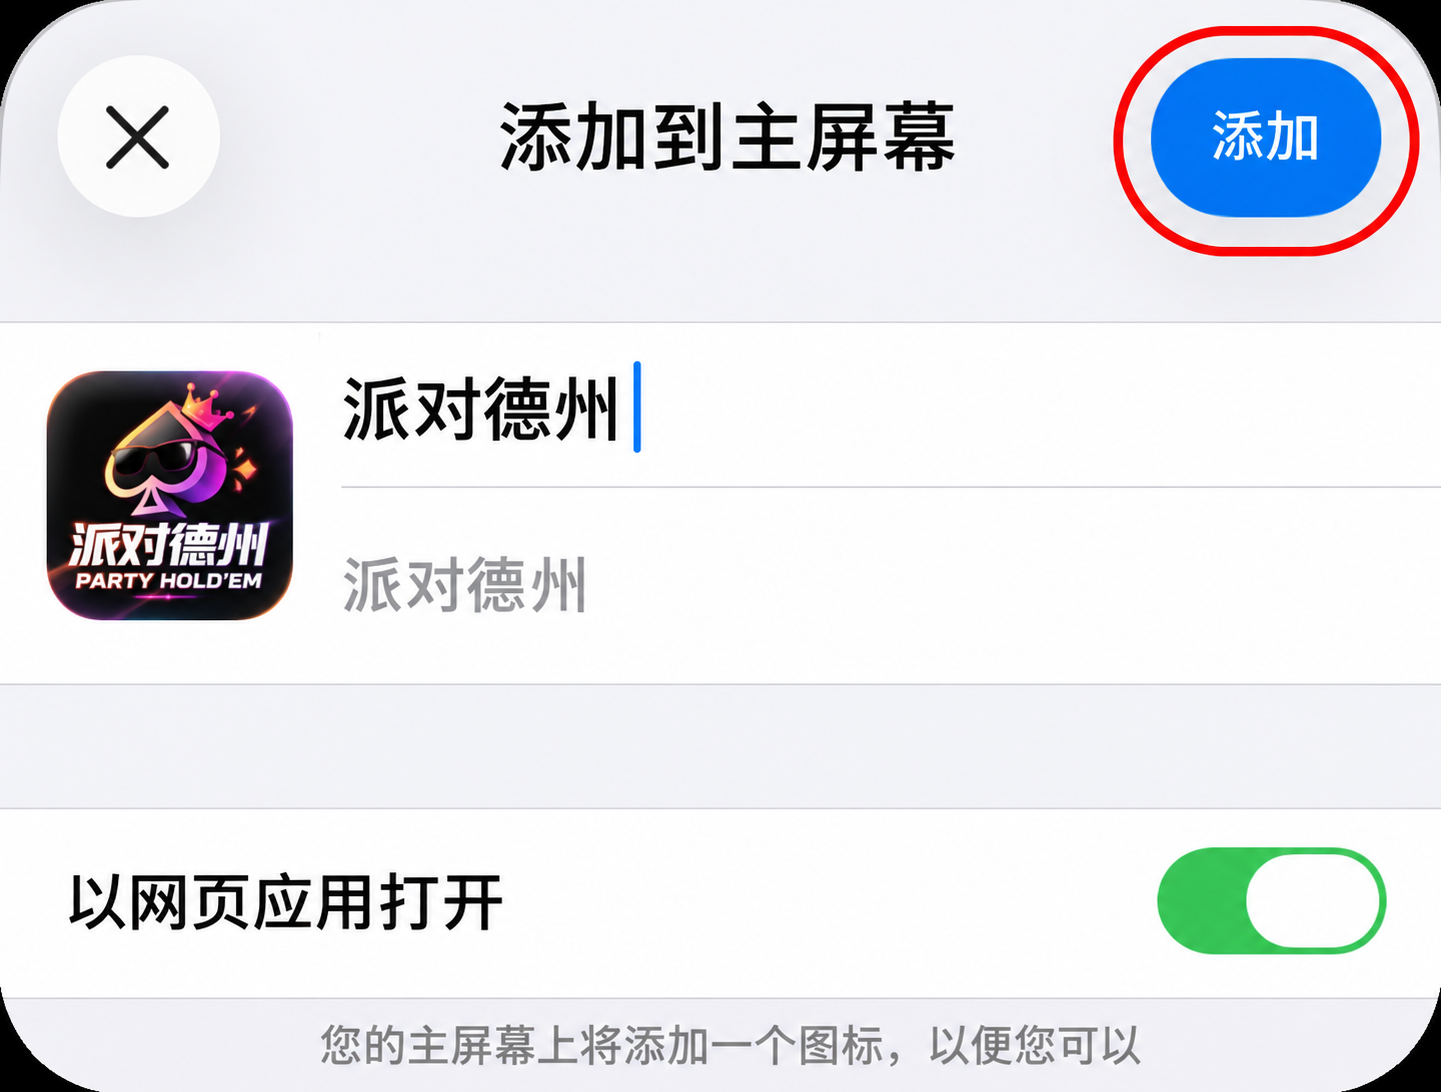
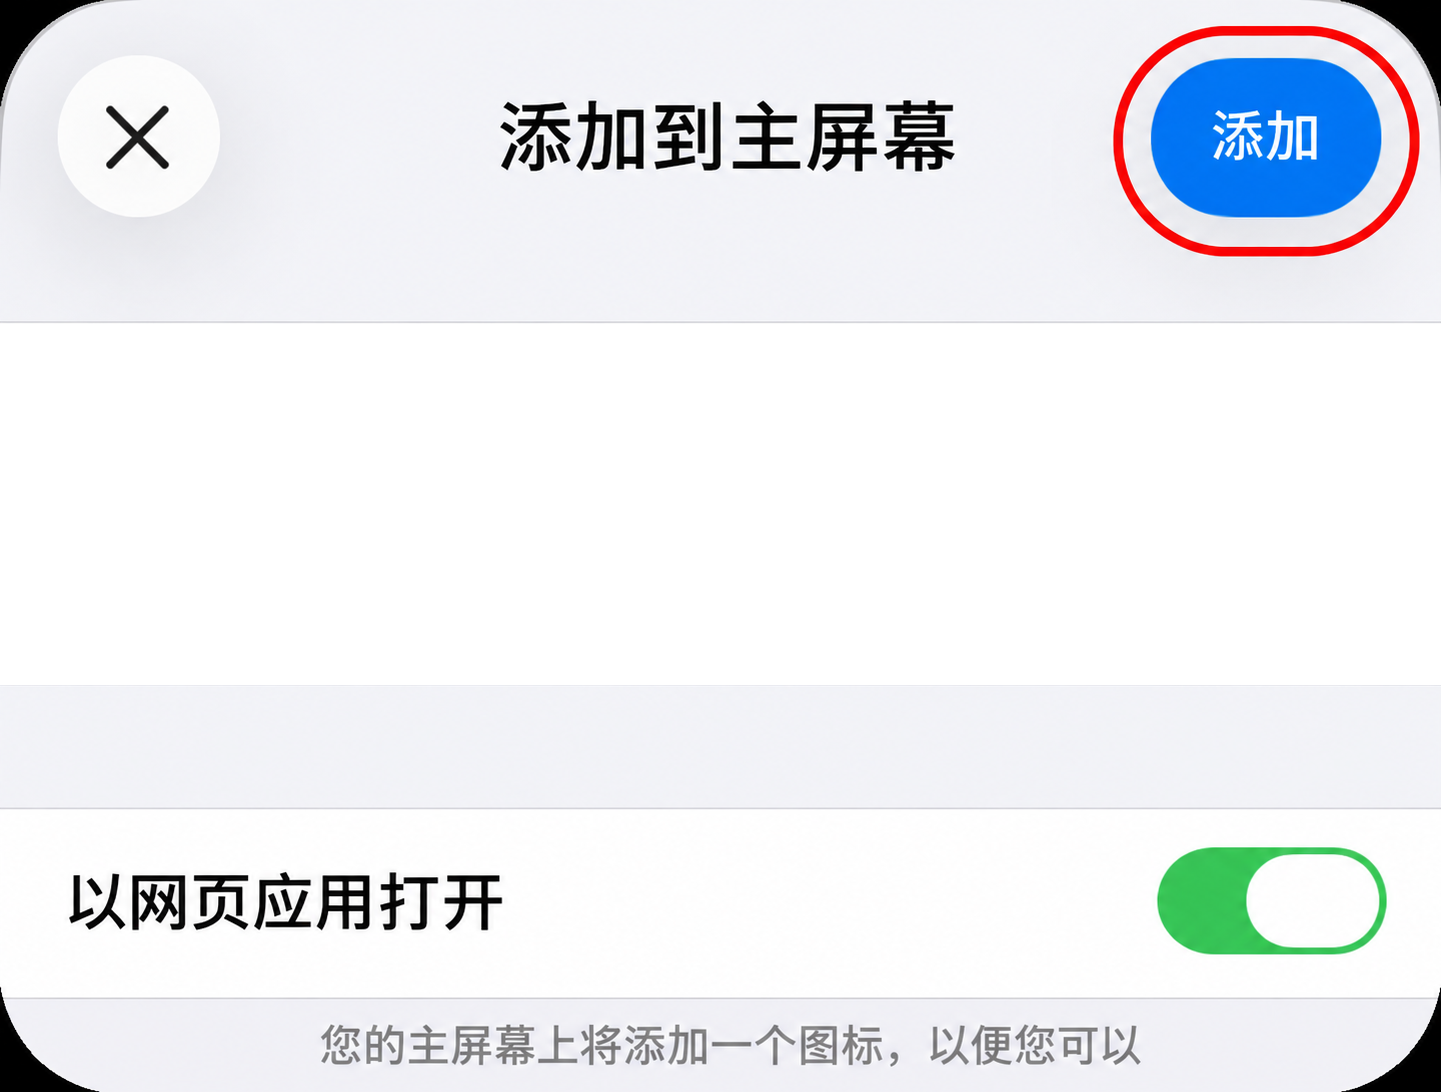
add to homescreen popup added in club private links

Changed region(s): [[0.0312, 0.3114, 0.4684, 0.5916]]

diff --git a/src/components/BridgePanel/panels/BridgeNotificationPanel.vue b/src/components/BridgePanel/panels/BridgeNotificationPanel.vue
@@ -4,24 +4,25 @@ import { showFailToast, showSuccessToast, showToast } from 'vant'
 import { t } from '@/i18n'
 import {
   canPromptInstall,
-  isIosSafari,
   isStandaloneDisplay,
   showAddToHomeScreenPrompt,
 } from '@/utils/environment'
-import {
-  installIosWebClip,
-  isIos,
-  isIosNativeSafari,
-  isIosThirdPartyBrowser,
-} from '@/utils/iosWebClip'
+import { isIos } from '@/utils/iosWebClip'
 import hometab1 from '@/assets/images/hometab1.png'
 import hometab2 from '@/assets/images/hometab2.png'
-import webClipIcon from '@/assets/images/icon-192.png?inline'
 import { sanitizeRichHtml } from '@/utils/safeHtml'
 import {
   isExternalLinkIframeModeEnabled,
   openExternalLinkFrame,
 } from '@/utils/externalLinkFrame'
+import { isChannelPackageHost, isPrivateDomainMode } from '@/utils/channelPackage'
+import { useUserInfoStore } from '@/stores/userInfo'
+import {
+  DEFAULT_CLUB_ICON,
+  DEFAULT_CLUB_NAME,
+  OFFICIAL_WEB_ICON,
+  OFFICIAL_WEB_NAME,
+} from '@/utils/safariWebApp'
 
 const props = defineProps<{
   panelProps?: Record<string, unknown>
@@ -109,7 +110,84 @@ const findUsData = computed<FindUsData & { link_list: string[] }>(() => {
 })
 
 // ==================== 状态 ====================
+const userInfoStore = useUserInfoStore()
+
+const isClub = computed<boolean>(() => {
+  if (typeof props.panelProps?.isClub === 'boolean') {
+    return props.panelProps.isClub
+  }
+  return isChannelPackageHost() || isPrivateDomainMode()
+})
+
+const dynamicGuideLabel = computed<string>(() => {
+  if (isClub.value) {
+    const club = userInfoStore.channelDefaultClub || userInfoStore.currentClub
+    const raw = (club || {}) as Record<string, unknown>
+    const fromClub =
+      (typeof club?.safari_label === 'string' && club.safari_label.trim()) ||
+      (typeof raw.safari_name === 'string' && raw.safari_name.trim()) ||
+      (typeof raw.desktop_name === 'string' && raw.desktop_name.trim()) ||
+      (typeof club?.name === 'string' && club.name.trim()) ||
+      (typeof raw.app_name === 'string' && raw.app_name.trim())
+    if (fromClub) return fromClub
+
+    if (typeof window !== 'undefined') {
+      const cached = window.localStorage.getItem('dzpk_h5_safari_label')
+      if (cached && cached.trim()) return cached.trim()
+    }
+
+    if (
+      typeof document !== 'undefined' &&
+      document.title &&
+      document.title.trim() &&
+      document.title !== OFFICIAL_WEB_NAME
+    ) {
+      return document.title.trim()
+    }
+
+    return DEFAULT_CLUB_NAME
+  }
+  return OFFICIAL_WEB_NAME
+})
+
+const dynamicGuideIcon = computed<string>(() => {
+  if (isClub.value) {
+    const club = userInfoStore.channelDefaultClub || userInfoStore.currentClub
+    const raw = (club || {}) as Record<string, unknown>
+    const fromClub =
+      (typeof club?.safari_icon_url === 'string' && club.safari_icon_url.trim()) ||
+      (typeof raw.safari_icon === 'string' && raw.safari_icon.trim()) ||
+      (typeof raw.desktop_icon === 'string' && raw.desktop_icon.trim()) ||
+      (typeof club?.logo === 'string' && club.logo.trim()) ||
+      (typeof raw.app_icon === 'string' && raw.app_icon.trim())
+    if (fromClub) return fromClub
+
+    if (typeof window !== 'undefined') {
+      const cached = window.localStorage.getItem('dzpk_h5_safari_icon')
+      if (cached && cached.trim()) return cached.trim()
+    }
+
+    if (typeof document !== 'undefined') {
+      const touchIcon = document.querySelector<HTMLLinkElement>('link[rel="apple-touch-icon"]')?.href
+      if (touchIcon && touchIcon.trim()) return touchIcon.trim()
+      const favIcon = document.querySelector<HTMLLinkElement>('link[rel="icon"]')?.href
+      if (favIcon && favIcon.trim()) return favIcon.trim()
+    }
+
+    return DEFAULT_CLUB_ICON
+  }
+  return OFFICIAL_WEB_ICON
+})
+
+function onGuideIconError(event: Event): void {
+  const target = event.target
+  if (target instanceof HTMLImageElement) {
+    target.src = isClub.value ? DEFAULT_CLUB_ICON : OFFICIAL_WEB_ICON
+  }
+}
+
 // 按需显示：只把有数据的步骤纳入递进序列（1=下载APP 2=弹窗公告 3=备用地址）
+// 俱乐部版本只保留第1步，不展示后两步
 const hasDownloadApp = computed(() => Object.keys(downloadAppData.value).length > 0)
 const hasPopupNotices = computed(() => popupNoticeList.value.length > 0)
 const hasFindUs = computed(() => {
@@ -120,8 +198,8 @@ const hasFindUs = computed(() => {
 const availableSteps = computed<number[]>(() => {
   const steps: number[] = []
   if (hasDownloadApp.value) steps.push(1)
-  if (hasPopupNotices.value) steps.push(2)
-  if (hasFindUs.value) steps.push(3)
+  if (!isClub.value && hasPopupNotices.value) steps.push(2)
+  if (!isClub.value && hasFindUs.value) steps.push(3)
   return steps
 })
 
@@ -339,6 +417,7 @@ async function onSecondaryAction(): Promise<void> {
             <span>{{ t('UILanding_Table') }}</span>
           </button>
           <button
+            v-if="!isClub"
             class="notification-panel__btn notification-panel__btn--primary"
             type="button"
             @click="onDownload"
@@ -509,8 +588,24 @@ async function onSecondaryAction(): Promise<void> {
             </div>
             <div class="a2h-guide__step">
               <p class="a2h-guide__text">{{ t('H5Display_GuideStep2') }}</p>
-              <div class="a2h-guide__img-wrap">
+              <div class="a2h-guide__img-wrap a2h-guide__img-wrap--step2">
                 <img :src="hometab2" alt="" class="a2h-guide__img" />
+                <div class="a2h-guide__mock-row">
+                  <div class="a2h-guide__mock-icon-wrap">
+                    <img
+                      :src="dynamicGuideIcon"
+                      alt=""
+                      class="a2h-guide__mock-icon"
+                      @error="onGuideIconError"
+                    />
+                  </div>
+                  <div class="a2h-guide__mock-info">
+                    <div class="a2h-guide__mock-title">
+                      <span>{{ dynamicGuideLabel }}</span>
+                    </div>
+                    <div class="a2h-guide__mock-sub">{{ dynamicGuideLabel }}</div>
+                  </div>
+                </div>
               </div>
             </div>
           </div>
@@ -1138,6 +1233,7 @@ async function onSecondaryAction(): Promise<void> {
   }
 
   &__img-wrap {
+    position: relative;
     border-radius: 20px;
     overflow: hidden;
     display: flex;
@@ -1145,6 +1241,77 @@ async function onSecondaryAction(): Promise<void> {
     width: 80%;
     max-width: 300px;
     margin: 0 auto;
+
+    &--step2 {
+      position: relative;
+    }
+  }
+
+  &__mock-row {
+    position: absolute;
+    top: 29.67%;
+    left: 0;
+    width: 100%;
+    height: 33.06%;
+    display: flex;
+    align-items: center;
+    padding: 0 4% 0 3.2%;
+    box-sizing: border-box;
+    pointer-events: none;
+    z-index: 2;
+  }
+
+  &__mock-icon-wrap {
+    width: 17.14%;
+    aspect-ratio: 1 / 1;
+    border-radius: 22%;
+    overflow: hidden;
+    flex-shrink: 0;
+    display: flex;
+    align-items: center;
+    justify-content: center;
+    background: #f2f2f7;
+    box-shadow: 0 1px 3px rgba(0, 0, 0, 0.12);
+  }
+
+  &__mock-icon {
+    width: 100%;
+    height: 100%;
+    object-fit: cover;
+    display: block;
+  }
+
+  &__mock-info {
+    margin-left: 3.5%;
+    flex: 1;
+    min-width: 0;
+    display: flex;
+    flex-direction: column;
+    justify-content: center;
+    gap: 4px;
+  }
+
+  &__mock-title {
+    font-size: clamp(10px, 3.4vw, 13px);
+    font-weight: 500;
+    color: #000000;
+    line-height: 1.25;
+    white-space: nowrap;
+    overflow: hidden;
+    text-overflow: ellipsis;
+    display: flex;
+    align-items: center;
+    font-family: -apple-system, BlinkMacSystemFont, 'SF Pro Text', 'PingFang SC', sans-serif;
+  }
+
+  &__mock-sub {
+    font-size: clamp(8px, 2.7vw, 10px);
+    color: #8e8e93;
+    line-height: 1.2;
+    white-space: nowrap;
+    overflow: hidden;
+    text-overflow: ellipsis;
+    font-family: -apple-system, BlinkMacSystemFont, 'SF Pro Text', 'PingFang SC', sans-serif;
   }
 
   &__img {

diff --git a/src/bridge/dailyH5DisplayPanel.ts b/src/bridge/dailyH5DisplayPanel.ts
@@ -7,7 +7,7 @@ import type {
 import { openBridgePanel } from '@/bridge/channels/panelChannel'
 import { subscribeCocosMessages } from '@/bridge/core/cocosBridgeChannel'
 import StorageKey from '@/constants/storageKey'
-import { isChannelPackageHost, isTelegramClubContext } from '@/utils/channelPackage'
+import { isChannelPackageHost, isPrivateDomainMode, isTelegramClubContext } from '@/utils/channelPackage'
 import { BRIDGE_ACTION, BRIDGE_MSG_TYPE, type BridgeMessage } from '@bridge-protocol'
 import { t } from '@/i18n'
 import { localStore } from '@/utils/localStore'
@@ -83,14 +83,14 @@ export async function tryShowDailyH5DisplayPanel(): Promise<void> {
     return
   }
 
-  // 私域版本（渠道包）暂时不展示三级公告，也不请求公告数据。
-  if (isChannelPackageHost()) {
-    return
-  }
+  const isClub = isChannelPackageHost() || isPrivateDomainMode()
+  const displayStorageKey = isClub
+    ? `${StorageKey.H5_DISPLAY_LAST_SHOWN_DATE}_club`
+    : StorageKey.H5_DISPLAY_LAST_SHOWN_DATE
 
   const today = getLocalDateKey()
   const lastShown = localStore.getItem<string | null>(
-    StorageKey.H5_DISPLAY_LAST_SHOWN_DATE,
+    displayStorageKey,
     null,
   )
   if (lastShown === today) {
@@ -116,8 +116,16 @@ export async function tryShowDailyH5DisplayPanel(): Promise<void> {
       ? data.find_us
       : null
 
-  // 三类数据全为空时，用内置多语言 fallback 兜底，保证仍有内容展示。
-  if (!downloadApp && popupNotices.length === 0 && !findUs) {
+  // 俱乐部版本：仅展示“添加桌面快捷方式”单个弹窗（步骤1），不添加后两个通知面板（步骤2公告和步骤3备用地址）。
+  // 官方网站版本保持原有逻辑不变：三类数据全为空时，用内置多语言 fallback 兜底。
+  if (isClub) {
+    if (!downloadApp) {
+      const fallback = buildFallbackDisplay()
+      downloadApp = fallback.download_app
+    }
+    popupNotices = []
+    findUs = null
+  } else if (!downloadApp && popupNotices.length === 0 && !findUs) {
     const fallback = buildFallbackDisplay()
     downloadApp = fallback.download_app
     popupNotices = fallback.popup_notices
@@ -129,12 +137,13 @@ export async function tryShowDailyH5DisplayPanel(): Promise<void> {
     title: '',
     props: {
       download_app: downloadApp ?? undefined,
-      popup_notices: popupNotices,
-      find_us: findUs ?? undefined,
+      popup_notices: isClub ? [] : popupNotices,
+      find_us: isClub ? undefined : (findUs ?? undefined),
+      isClub,
     },
   })
 
-  localStore.setItem(StorageKey.H5_DISPLAY_LAST_SHOWN_DATE, today)
+  localStore.setItem(displayStorageKey, today)
 }
 
 function runTrigger(reason: string): void {
